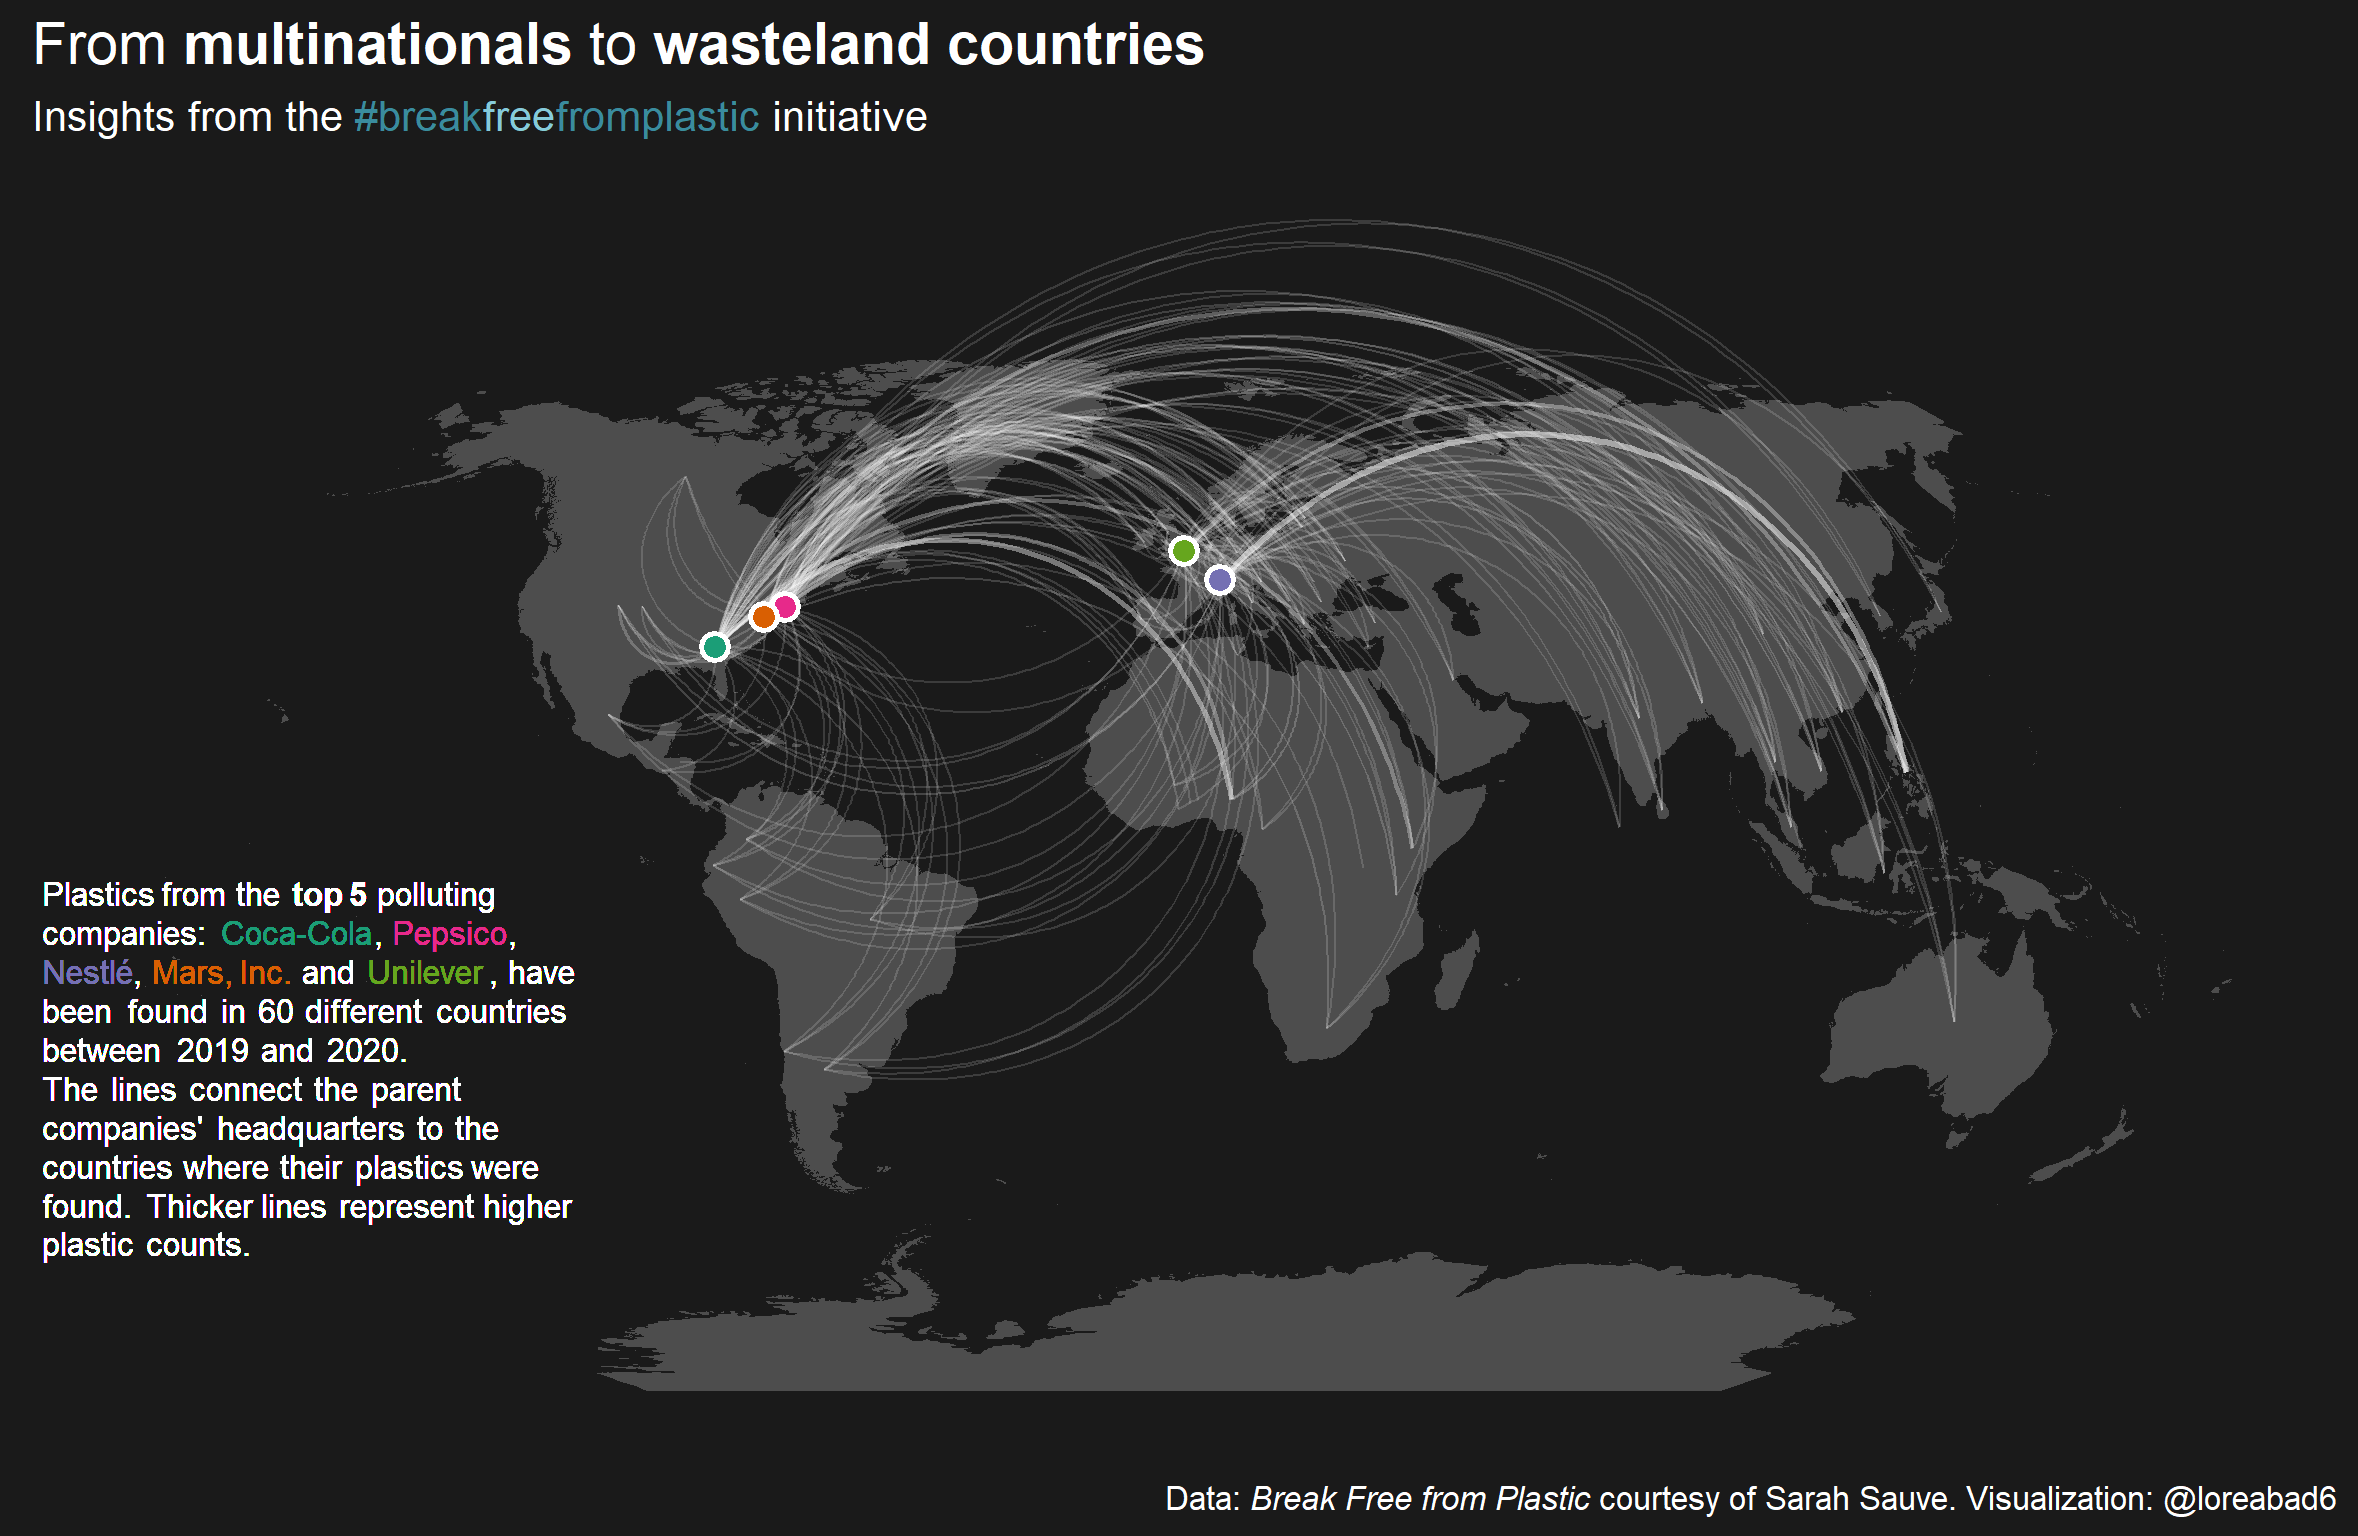
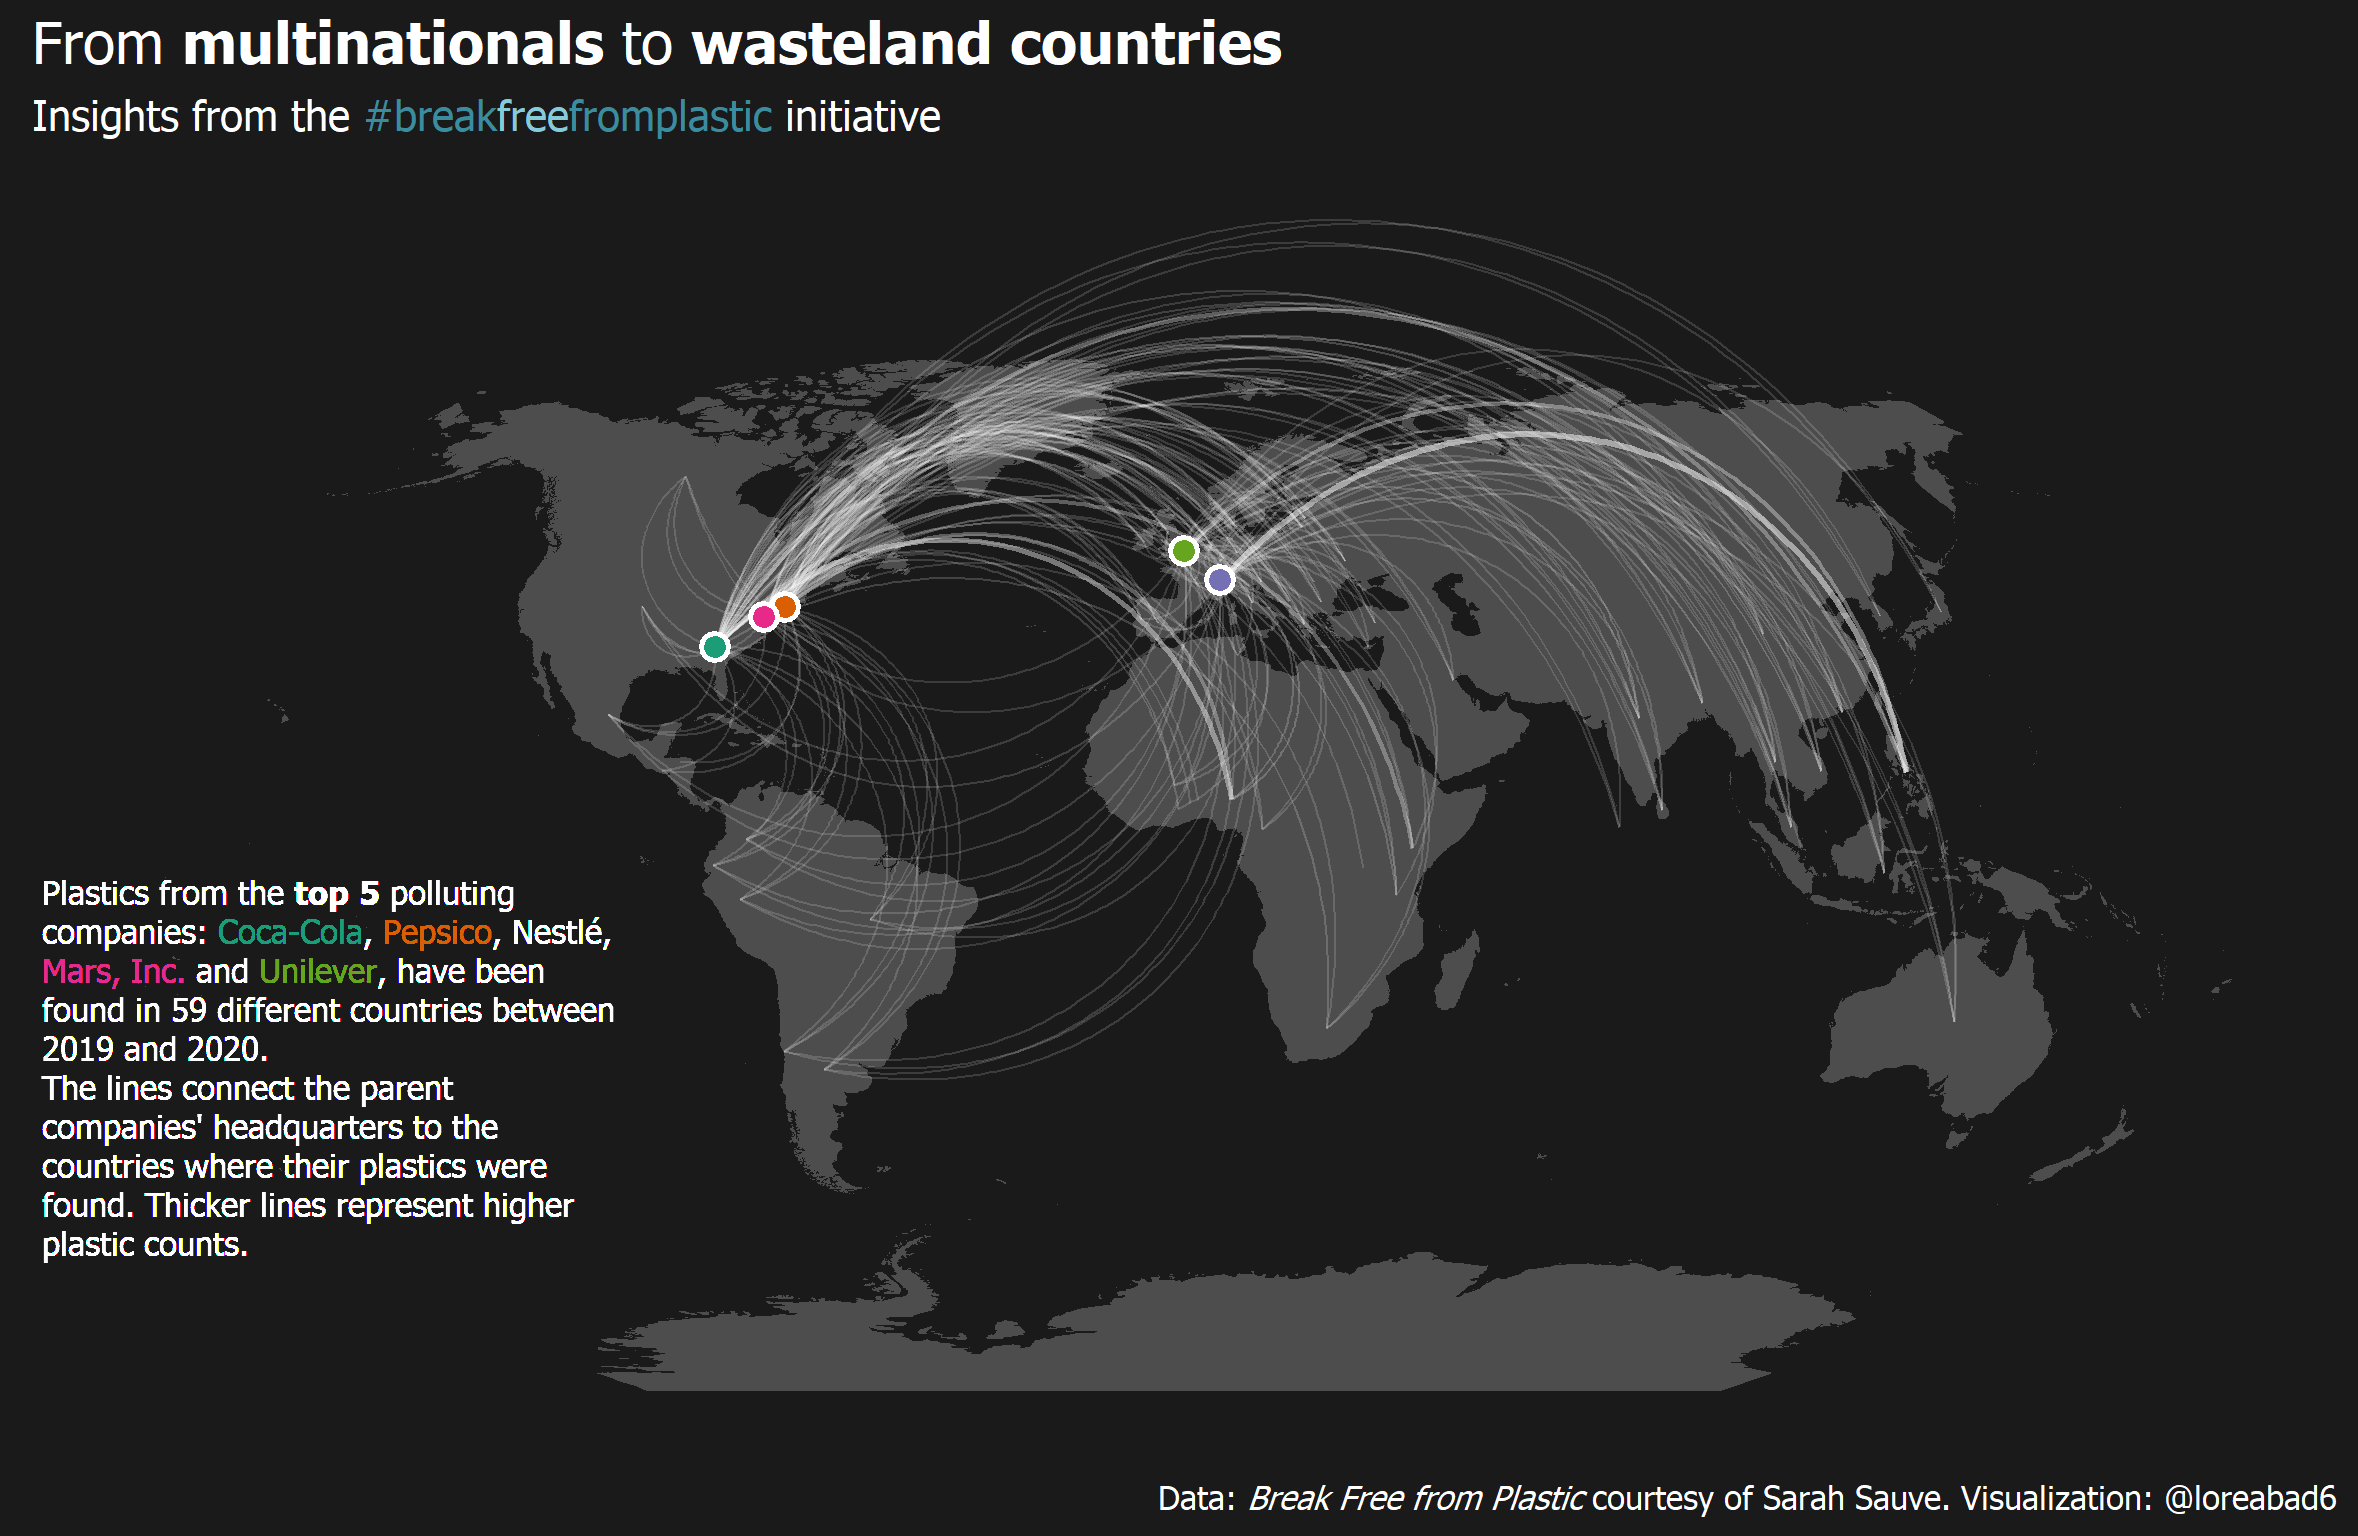
Improve code automation

diff --git a/R/2021/week_05.md b/R/2021/week_05.md
@@ -17,7 +17,6 @@ other `ggplot2` functions.
 Let’s start with loading the libraries we will use:
 
 ``` r
-library(tidytuesdayR)
 library(dplyr, quietly = T)
 library(tidygeocoder)
 library(sf, quietly = T)
@@ -454,36 +453,48 @@ First things first, let’s load some fonts (yes, I am a windows user! 😐).
 extrafont::loadfonts(device = 'win')
 ```
 
-Now we can prepare the title, subtitle, caption and a short description
-to be included in the plot. Colors in the description correspond to the
-points used in the final map. This assignment was done manually. The
-text is wrapped around `<span>` tags to pass them to `ggtext` functions
-later.
+We will now make a match for colors so that a descriptive text prepared
+below corresponds to the points used in the final map. The color
+assignment was done with the following named vector, which takes the
+name of the polluting companies as names for a palette with 5 colors. We
+will then use this vector in our description text and in the final plot.
 
 ``` r
-## Check the .Rmd file for a correct way to prepare this description.
+comp_name = net %>%
+  activate("nodes") %>%
+  filter(type == "Parent Company") %>%
+  pull(name)
+
+comp_col = RColorBrewer::brewer.pal(5, "Dark2")
+names(comp_col) = comp_name
+```
+
+Now we can prepare the title, subtitle, caption and a short description
+to be included in the plot. The text is wrapped around `<span>` tags to
+pass them to `ggtext` functions later.
+
+``` r
+## Check the .Rmd file for a correct way to prepare this labels.
 title = "From **multinationals** to **wasteland countries**"
 subtitle = "Insights from the 
             <span style='color:#3a8c9e'>
             #break<span style='color:#85cbda'>
             free</span>fromplastic
             </span> initiative" 
-caption = "Data: *Break Free from Plastic* courtesy of Sarah Sauve. 
+caption = "Data: *Break Free from Plastic* courtesy of Sarah Sauvé. 
           Visualization: @loreabad6"
 description = paste(
-  "Plastics from the **top 5** polluting companies: 
-  <span style='color:#1B9E77'>Coca-Cola</span>, 
-  <span style='color:#E7298A'>Pepsico</span>, 
-  <span style='color:#7570B3'>Nestlé</span>, 
-  <span style='color:#D95F02'>Mars, Inc.</span> 
-  and <span style='color:#66A61E'>Unilever</span>, 
-  have been found in", nrow(affected_countries), 
-  "different countries between 2019 and 2020. 
-  <br>The lines connect the parent companies' 
-  headquarters to the countries where their 
-  plastics were found. Thicker lines represent 
+  "Plastics from the **top 5** polluting companies: <span style='color:",
+  comp_col[1], "'>Coca-Cola</span>, <span style='color:", 
+  comp_col[2], "'>Pepsico</span>, <span style='color:", 
+  comp_col[3], "'>Nestlé</span>, <span style='color:", 
+  comp_col[4], "'>Mars, Inc.</span> and <span style='color:", 
+  comp_col[5], "'>Unilever</span>, have been found in",
+  nrow(affected_countries), "different countries between 2019 and 2020.
+  <br>The lines connect the parent companies' headquarters to the
+  countries where their plastics were found. Thicker lines represent
   higher plastic counts."
-  )
+)
 ```
 
 ### Integrating sfnetworks with ggraph
@@ -521,21 +532,15 @@ g = ggraph(net, layout = layout_sf) +
   ) +
   # Create node geoms using ggraph, in this case points
   geom_node_point(
-    # Remember the types we assigned during creation,
-    # They will help us filter which nodes we want to 
-    # represent with a point and which not.
-    aes(
-      fill = ifelse(type == "Parent Company", name,  NA_character_),
-      shape = type,
-    ),
-    # I will use pch 21 below, so the stroke determines 
-    # the bound to use
-    size = 2.5, color = "white", stroke = 1, show.legend = F
+    # Remember the types we assigned during creation, they will help us 
+    # filter which nodes we want to represent with a point and which not.
+    # ggraph has a very nice filter aesthetic that let's us do this simple
+    aes(fill = name, filter = type == "Parent Company"),
+    # I will use pch 21, so the stroke determines the bound to use
+    size = 2.5, color = "white", stroke = 1, show.legend = F, shape = 21
   ) +
-  # Assign pch 21 only to parent companies
-  scale_shape_manual(values = c(NA, 21)) +
   # Give colors to each Parent Company
-  scale_fill_manual(values = RColorBrewer::brewer.pal(5, "Dark2")) +
+  scale_fill_manual(values = comp_col) +
   # Get the labels created above. They have markdown syntax.
   labs(
     title = title,
